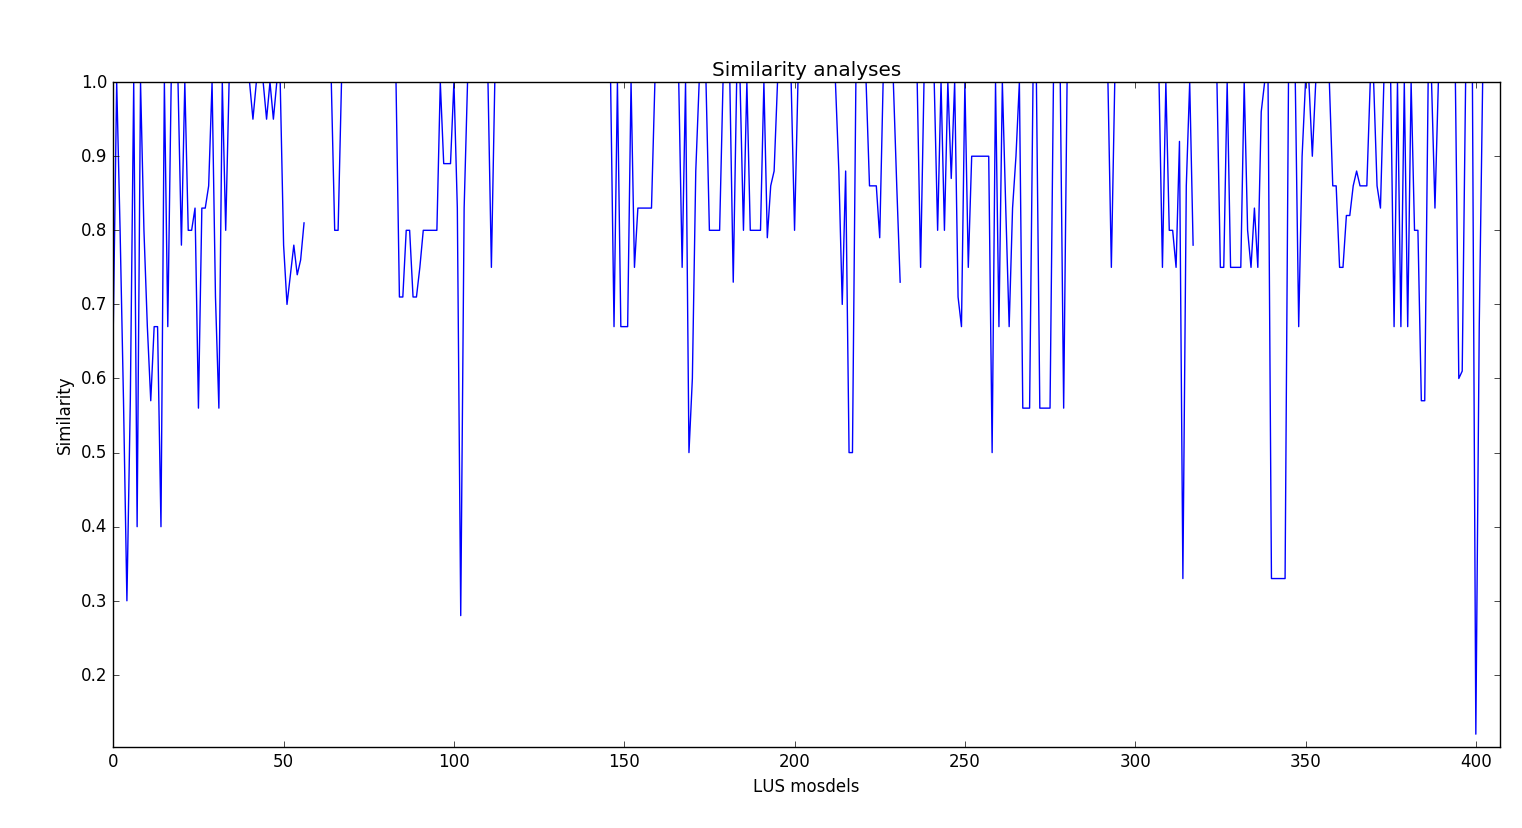
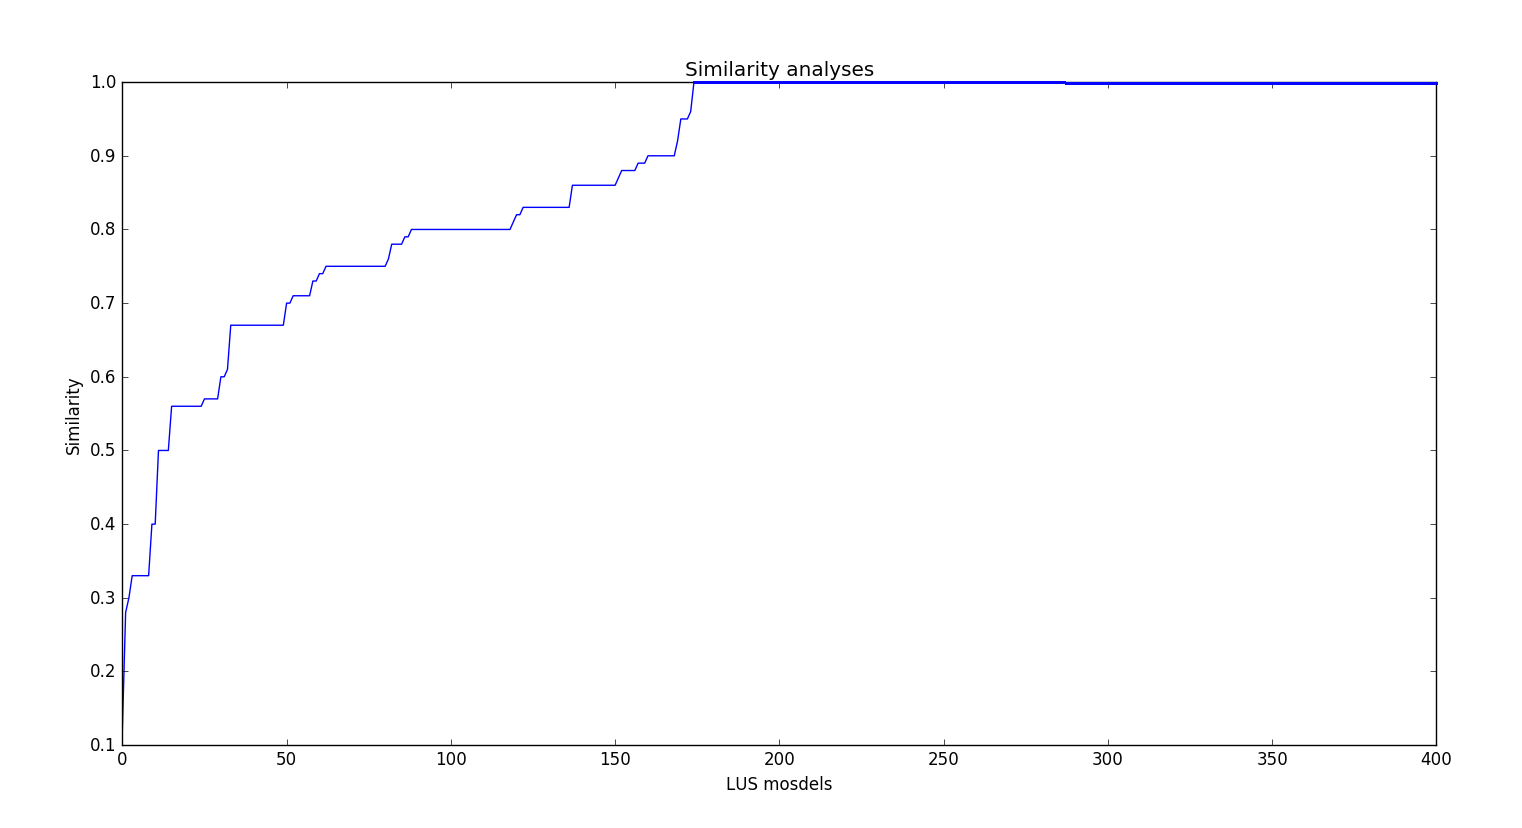
minor update of the report

diff --git a/support/experiments/experimental_results/report_TeX/eval.tex b/support/experiments/experimental_results/report_TeX/eval.tex
@@ -8,8 +8,9 @@ This section evaluates our approach by addressing the following research questio
     \item \textbf{RQ2:} How dependent is our approach on different tools and proof engines? Does different solvers/ proof engines generate different support set? If so, to what extent are they different?
     \item \textbf{RQ3:} Is there any relationship between the size of a computed support set and 
     solvers/ proof engines? For each model, we have 12 sets of support computed by \texttt{JKind}, and one \emph{minimal} set computed by \texttt{JSupport}; we would like to know which configurations generated sets that are very close or far to the minimal one.
-    \item \textbf{RQ4:} How close to minimal are the support sets computed by our algorithm? We would like to know how close 12 sets computed by \texttt{JKind} are to the minimal one.
-    \item \textbf{RQ5:} How do different solvers perform on computing support? And, how efficient is it in comparison with \texttt{JSupport}?
+    \item \textbf{RQ4:} Is there any relationship between the size of the model and the variety of ?
+    \item \textbf{RQ5:} How close to minimal are the support sets computed by our algorithm? We would like to know how close 12 sets computed by \texttt{JKind} are to the minimal one.
+    \item \textbf{RQ6:} How do different solvers perform on computing support? And, how efficient is it in comparison with \texttt{JSupport}?
 \end{itemize} 
 
 \subsection{Analytical Results}
@@ -80,7 +81,29 @@ Therefore, we obtained $\binom{13}{2} = 78$ combinations of distances per model.
 }
  \vspace{9pt}
  
-\textbf{(2)} In addition to Jaccard distance, we also measured the similarity among all sets computed in different configurations per model. Let $S_M$ be a set of all support sets computed for model $M$ (i.e. in our experiments, $S_M$ is a set of 13 sets).  We define similarity per model as follows:
+\textbf{(2)} Since one goal was to know if sets of support are different, to what extent they are and which configurations have generated more different/similar sets. We analyzed the results, 
+and it turns out 174 models out of 405 contain at least two different support sets (which means in 231 models, all 13 sets of support are the same). We analyzed those 174 models; for each of them pairwise Jaccard distance between sets compared, and configurations with maximum/ minimum distances are collected. Fig~\ref{fig:maxdis} and Fig~\ref{fig:mindis} show the results. For example, in Fig~\ref{fig:maxdis}, in 20 models out of 405, \texttt{JSupport} and the configuration where \texttt{Z3} and both proof engines were employed, Jaccard distance between support sets computed by them is maximum. As you can see, different configurations of \texttt{JKind} do not affect very much the variety of the generated sets. However, \texttt{JSupport} and \texttt{JKind} configurations have had maximum distances most of the time. But, even so, the frequency in 405 models is very low.
+
+\begin{figure}
+  \centering
+  \includegraphics[width=\textwidth]{figs/max_settings_analyses.png}
+  \caption{Pairwise configurations with maximum Jaccard distance}\label{fig:maxdis}
+\end{figure}
+
+\begin{figure}
+  \centering
+  \includegraphics[width=\textwidth]{figs/min_settings_analyses.png}
+  \caption{Pairwise configurations with minimum Jaccard distance}\label{fig:mindis}
+\end{figure}
+
+\noindent\fbox{%
+    \parbox{\textwidth}{%
+        Different solvers and proof engines have very small impact on the variety of elements in a support set of a property computed by our algorithm.
+    }%
+}
+ \vspace{9pt}
+
+\textbf{(3)} In addition to Jaccard distance, we also measured the similarity among all sets computed in different configurations per model. Let $S_M$ be a set of all support sets computed for model $M$ (i.e. in our experiments, $S_M$ is a set of 13 sets).  We define similarity per model as follows:
 
 \begin{center}
 $similarity = \frac{|\bigcap_{i=1}^{13} s_{Mi}|}{|\bigcup_{i=1}^{13} s_{Mi}|}, \hspace{9pt} s_{Mi} \in S_M$
@@ -112,6 +135,7 @@ Needless to say, $0 \leq similarity \leq 1$, and if all the sets in $S_M$ are th
   \caption{Similarity measurement for all models}\label{fig:sim}
 \end{figure}
 
+
 \noindent\fbox{%
     \parbox{\textwidth}{%
         An average \textit{similarity} of 0.884 shows that support sets computed in different 
@@ -120,15 +144,30 @@ Needless to say, $0 \leq similarity \leq 1$, and if all the sets in $S_M$ are th
 }
  \vspace{9pt}
 
-\textbf{(3)}
-We also calculate a core set of support for each model in the benchmarks; A core set of model $M$ is defined as
-$\bigcap_{i=1}^{13} s_{Mi},   hspace{9pt} s_{Mi} \in S_M$, 
+\textbf{(4)}
+We also calculate a core set of support for each model of the benchmarks; A core set of model $M$ is defined as
+$\bigcap_{i=1}^{13} s_{Mi},   hspace{9pt} s_{Mi} \in S_M$. Then, the size difference of the core set with the smallest support set of $M$ was calculated. The results are visualized in Fig~\ref{fig:core}
+
+\begin{figure}
+  \centering
+  \includegraphics[width=\textwidth]{figs/core.png}
+  \caption{Size difference between the core set and the smallest support set per model}\label{fig:core}
+\end{figure}
 
 
+\noindent\fbox{%
+    \parbox{\textwidth}{%
+        The core support set is very close to the smallest support set of a property.
+    }%
+}
+ \vspace{9pt}
 
+% RQ3: Is there any relationship between the size of a computed support set and
+%solvers/ proof engines? For each model, we have 12 sets of support computed by \texttt{JKind}, and one %\emph{minimal} set computed by \texttt{JSupport}; we would like to know which configurations generated setsthat are very close or far to the minimal one.
+\textbf{RQ3:} 
 
-% RQ5: overall runtime in JSupport and different solvers
-\textbf{RQ5.} In addition to overhead, it is also important to know how efficiently \texttt{JKind} performs on computing set of support in comparison with \texttt{JSupport}. Table~\ref{tab:eff-comp-jsup} compares overall runtime of support computation in different solvers and \texttt{JSupport}.
+% RQ6: overall runtime in JSupport and different solvers
+\textbf{RQ6.} In addition to overhead, it is also important to know how efficiently \texttt{JKind} performs on computing set of support in comparison with \texttt{JSupport}. Table~\ref{tab:eff-comp-jsup} compares overall runtime of support computation in different solvers and \texttt{JSupport}.
 
 \begin{table}
   \centering
@@ -182,6 +221,7 @@ For 405 models, runtime of support computation in the configurations where both 
   \includegraphics[width=\textwidth]{figs/runtimeAll.png}
   \caption{\small{Runtime of support computation with all solvers}}\label{fig:runtimeall}
 \end{figure}
+
 \vspace{6pt}
 \noindent\fbox{%
     \parbox{\textwidth}{%

diff --git a/support/experiments/scripts_for_experiments/support_analyzer2.py b/support/experiments/scripts_for_experiments/support_analyzer2.py
@@ -7,6 +7,7 @@ __date__ = "$Feb 5, 2016 9:03:27 AM$"
 
 import os, sys, shelve, glob 
 import matplotlib.pyplot as plt
+import numpy as np
 
 ANALYSES_DIR = 'support_analyses'
 MINING_DIR = 'mining'
@@ -144,6 +145,10 @@ writer.write('\nthis is to report, for each model:\n')
 writer.write('\n    -- core set: intersection of all support sets obtained from different configurations')
 writer.write('\n    -- how far is the core set from a minimal set? (in terms of size difference)') 
 writer.write('\n    -- similarity = |intersection(sup_sets)| / |union(sup_sets)|')
+writer.write('\nmin similarity among all models: ' + str(min(sim_all_models)))
+writer.write('\nmax similarity among all models: '+ str(max(sim_all_models)))
+writer.write('\navg similarity among all models: '+ str(np.nanmean(sim_all_models)))
+writer.write('\nstdev similarity among all models: '+ str(np.nanstd(sim_all_models)))
 writer.write('\n-------------------------------------------------------------------------------------------------\n\n')
 for indx, model in enumerate(all_sup_info):
     writer.write('\n'+ str(indx) + ') ' + model[0:len(model)-13] + ':')
@@ -161,6 +166,39 @@ writer.close()
 
 # Build a list for x-axis
 x_axis = []
+for i in range(405):
+    x_axis.append(i)
+    
+
+'''#core sets
+y_axis = []
+
+for indx in range(len(all_sup_info)):
+    y_axis.append(core_elements_all_models[indx]['dif'])
+    
+y_axis = list(np.sort(y_axis))
+ 
+fig1 = plt.figure()  
+plt.plot(x_axis, y_axis)
+plt.xlabel('LUS mosdels')
+plt.ylabel('Size difference')
+plt.title('Size difference of the core set with the smallest support set per model') 
+plt.show()
+fig1.savefig(os.path.join(os.pardir, ANALYSES_DIR, 'core.png'))    
+'''
+
+
+#similarity
+fig1 = plt.figure()  
+plt.plot(x_axis, list(np.sort(sim_all_models)))
+plt.xlabel('LUS mosdels')
+plt.ylabel('Similarity')
+plt.title('Similarity analyses') 
+plt.show()
+fig1.savefig(os.path.join(os.pardir, ANALYSES_DIR, 'similarity.png'))
+
+
+'''x_axis = []
 for i in range(len(SETTINGS)):
     x_axis.append(i+2)
     
@@ -188,4 +226,4 @@ plt.show()
 fig2.savefig(os.path.join(os.pardir, ANALYSES_DIR, 'big_conf.png'))
 
 plt.close(fig1)
-plt.close(fig2)
+plt.close(fig2)'''
